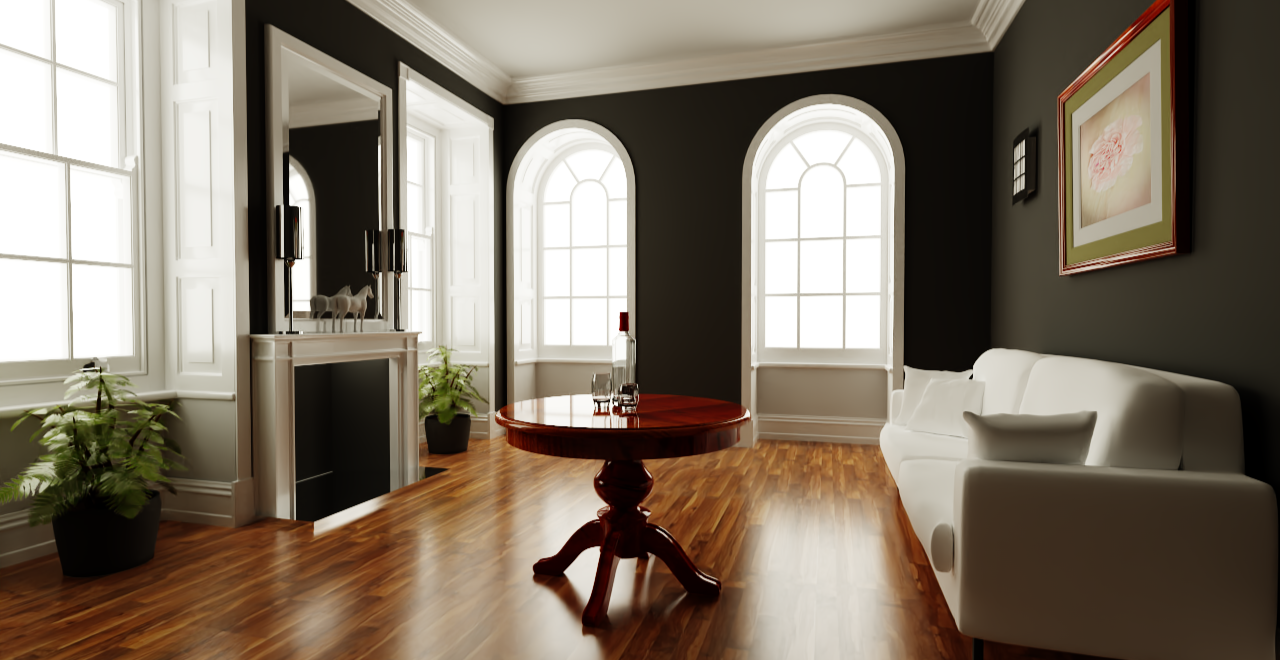
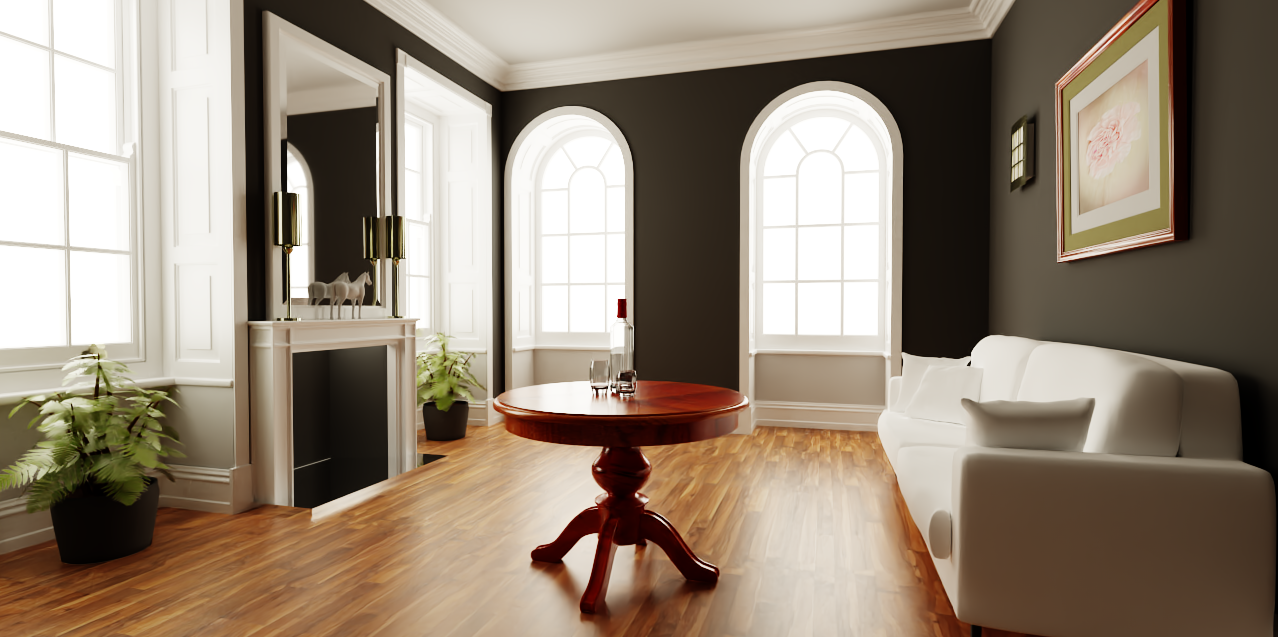
tweak pbrt material parameters

diff --git a/src/scene/pbrt.cpp b/src/scene/pbrt.cpp
@@ -1,10 +1,12 @@
 #define STBI_MSC_SECURE_CRT
 #include <pbrtParser/Scene.h>
 #include "stb_image.h"
+#include "render/materials/fresnel.h"
 #include "importer.h"
 
 KRR_NAMESPACE_BEGIN
 
+using namespace math;
 using namespace importer;
 
 namespace {
@@ -61,81 +63,96 @@ size_t loadMaterial(Scene::SharedPtr scene,
 		float x = log(roughness);
 		float val = 1.62142f + 0.819955f * x + 0.1734f * pow2(x) + 0.0171201f * pow3(x) +
 					0.000640711f * pow4(x);
-		return val;
+		return (val);
 	};
 
 	if (auto m = std::dynamic_pointer_cast<pbrt::DisneyMaterial>(mat)) {
 		Log(Info, "Encountered disney material: %s", mat->name.c_str());
-		matParams.diffuse = Vector4f(m->color.x, m->color.y, m->color.z, matParams.diffuse[3]);
+		matParams.diffuse = Vector4f(m->color.x, m->color.y, m->color.z, 1);
 		matParams.IoR			   = m->eta;
 		matParams.specular[2]	   = m->metallic;
 		matParams.specular[1]	   = m->roughness;
 	} else if (auto m = std::dynamic_pointer_cast<pbrt::PlasticMaterial>(mat)) {
 		Log(Info, "Encountered plastic material: %s", mat->name.c_str());
-		matParams.diffuse = Vector4f(cast(m->kd), matParams.diffuse[3]);
+		matParams.diffuse = Vector4f(cast(m->kd), 1);
 		if (m->map_kd) {
 			if (auto const_tex = std::dynamic_pointer_cast<pbrt::ConstantTexture>(m->map_kd))
-				matParams.diffuse = Vector4f(cast(const_tex->value), matParams.diffuse[3]);
+				matParams.diffuse = Vector4f(cast(const_tex->value), 1);
 			else loadTexture(material, m->map_kd, Material::TextureType::Diffuse, basedir);
 		}
 		const Vector3f ks(cast(m->ks));
 		matParams.specular[3] = luminance(ks);
 		float roughness		  = m->roughness;
 		if (m->remapRoughness) roughness = remap_roughness(roughness);
-		matParams.specular[1] = roughness;
+		matParams.specular[1] = sqrt(roughness);		// sqrt'ed
 	} else if (auto m = std::dynamic_pointer_cast<pbrt::MatteMaterial>(mat)) {
 		Log(Info, "Encountered matte material: %s", mat->name.c_str());
-		matParams.diffuse = Vector4f(cast(m->kd), matParams.diffuse[3]);
+		matParams.diffuse = Vector4f(cast(m->kd), 1);
 		if (m->map_kd) {
+			Log(Debug, "A diffuse texture is found for %s texture %s", m->toString().c_str(),
+				m->name.c_str());
 			if (auto const_tex = std::dynamic_pointer_cast<pbrt::ConstantTexture>(m->map_kd)) 
-				matParams.diffuse = Vector4f(cast(const_tex->value), matParams.diffuse[3]);
+				matParams.diffuse = Vector4f(cast(const_tex->value), 1);
 			else loadTexture(material, m->map_kd, Material::TextureType::Diffuse, basedir);
 		}
 		matParams.specular[1] = 0.9;
 	} else if (auto m = std::dynamic_pointer_cast<pbrt::SubstrateMaterial>(mat)) {
 		Log(Info, "Encountered substrate material: %s", mat->name.c_str());
 		material->mShadingModel = Material::ShadingModel::SpecularGlossiness;
-		matParams.diffuse = Vector4f(cast(m->kd), matParams.diffuse[3]);
+		matParams.diffuse = Vector4f(cast(m->kd), 1);
 		if (m->map_kd) {
 			if (auto const_tex = std::dynamic_pointer_cast<pbrt::ConstantTexture>(m->map_kd)) 
-				matParams.diffuse = Vector4f(cast(const_tex->value), matParams.diffuse[3]);
+				matParams.diffuse = Vector4f(cast(const_tex->value), 1);
 			else loadTexture(material, m->map_kd, Material::TextureType::Diffuse, basedir);
 		}
 		Vector3f ks(cast(m->ks));
 		float roughness = (m->uRoughness + m->vRoughness) / 2;
 		if (m->remapRoughness) roughness = remap_roughness(roughness);
-		matParams.specular = Vector4f(ks, 1 - roughness);
+		matParams.specular = Vector4f(ks, 1 - sqrt(roughness));		// sqrt'ed
 	} else if (auto m = std::dynamic_pointer_cast<pbrt::UberMaterial>(mat)) {
 		Log(Info, "Encountered uber material: %s", mat->name.c_str());
-		material->mShadingModel		   = Material::ShadingModel::SpecularGlossiness;
 		Vector3f diffuse		= cast(m->kd);
 		Vector3f specular		= cast(m->ks);
 		Vector3f transmission	= cast(m->kt);
-		material->mShadingModel = Material::ShadingModel::SpecularGlossiness;
-		matParams.diffuse		= Vector4f(diffuse, matParams.diffuse[3]);
-		matParams.specular		= Vector4f(specular, 1 - m->roughness);
-		matParams.specularTransmission = luminance(transmission);
+		float roughness			= m->roughness;
+		//roughness				= remap_roughness(roughness);
 		if (m->map_kd) {
 			Log(Debug, "A diffuse texture is found for %s texture %s", m->toString().c_str(),
 				m->name.c_str());
 			if (auto const_tex = std::dynamic_pointer_cast<pbrt::ConstantTexture>(m->map_kd)) 
-				matParams.diffuse = Vector4f(cast(const_tex->value), matParams.diffuse[3]);
+				diffuse = cast(const_tex->value);
 			else loadTexture(material, m->map_kd, Material::TextureType::Diffuse, basedir);
 		}
 		if (m->map_ks) {
 			Log(Debug, "A specular texture is found for %s texture %s", m->toString().c_str(),
 				m->name.c_str());
 			if (auto const_tex = std::dynamic_pointer_cast<pbrt::ConstantTexture>(m->map_ks)) 
-				matParams.specular = Vector4f(cast(const_tex->value), matParams.specular[3]);
+				specular = cast(const_tex->value);
 			 else loadTexture(material, m->map_ks, Material::TextureType::Specular, basedir);
 		}
 		if (m->map_opacity) {
-			// TODO: alpha-killing is currently not supported.
-			Log(Info, "A opacity map is found for %s texture %s", m->toString().c_str(),
+			Log(Info, "An opacity map is found for %s texture %s", m->toString().c_str(),
 				m->name.c_str());
-			if (auto const_tex = std::dynamic_pointer_cast<pbrt::ImageTexture>(m->map_opacity))
+			if (auto tex = std::dynamic_pointer_cast<pbrt::ImageTexture>(m->map_opacity))
 				loadTexture(material, m->map_opacity, Material::TextureType::Transmission, basedir);
 		}
+		if (m->map_roughness) {
+			Log(Info, "A roughness map is found for %s texture %s", m->toString().c_str(),
+				m->name.c_str());
+			if (auto const_tex = std::dynamic_pointer_cast<pbrt::ConstantTexture>(m->map_ks))
+				roughness = luminance(cast(const_tex->value));
+			else Log(Warning, "An image roughness map is currently not supported!");
+		} 
+		if (m->map_bump) {
+			Log(Info, "A bump map is found for %s texture %s", m->toString().c_str(),
+				m->name.c_str());
+			if (auto tex = std::dynamic_pointer_cast<pbrt::ImageTexture>(m->map_opacity))
+				loadTexture(material, m->map_opacity, Material::TextureType::Normal, basedir);
+		}
+		material->mShadingModel		   = Material::ShadingModel::SpecularGlossiness;
+		matParams.diffuse			   = Vector4f(diffuse, matParams.diffuse[3]);
+		matParams.specular			   = Vector4f(specular, 1 - sqrt(roughness));	// sqrt'ed
+		matParams.specularTransmission = luminance(transmission);
 	} else if (auto m = std::dynamic_pointer_cast<pbrt::TranslucentMaterial>(mat)) {
 		Log(Warning, "Encountered not well-supported transluscent material: %s", mat->name.c_str());
 		matParams.diffuse = Vector4f(cast(m->kd), matParams.diffuse[3]);
@@ -149,25 +166,27 @@ size_t loadMaterial(Scene::SharedPtr scene,
 		// TODO: needs to make disney mirror-reflect when 0-roughness.
 		Log(Info, "Encountered mirror material: %s", mat->name.c_str());
 		material->mShadingModel = Material::ShadingModel::SpecularGlossiness;
-		matParams.diffuse		= Vector4f(Vector3f(0), matParams.diffuse[3]);
+		matParams.diffuse		= Vector4f(Vector3f(0), 1);
 		matParams.specular		= Vector4f(cast(m->kr), 1);
 	} else if (auto m = std::dynamic_pointer_cast<pbrt::MetalMaterial>(mat)) {
 		Log(Warning, "Encountered not well-supported metal material: %s", mat->name.c_str());
 		material->mShadingModel = Material::ShadingModel::MetallicRoughness;
 		Vector3f eta			= cast(m->eta);
 		Vector3f eta_k			= cast(m->k);
-		matParams.diffuse		= Vector4f(eta_to_reflectivity(eta, eta_k), 0);
+		//matParams.diffuse		= Vector4f(eta_to_reflectivity(eta, eta_k), 0);
+		matParams.diffuse = Vector4f(bsdf::FrComplex(1, eta, eta_k), 0);
 		float roughness			= m->roughness;
+		roughness				= (m->uRoughness + m->vRoughness) / 2;
 		if (m->remapRoughness) roughness = remap_roughness(roughness);
-		matParams.specular[1] = roughness;
-		matParams.specular[2] = 0.8;		// manually set metallic
+		matParams.specular[1] = sqrt(roughness);	// sqrt'ed
+		matParams.specular[2] = 0.8;				// manually set metallic
 	} else if (auto m = std::dynamic_pointer_cast<pbrt::GlassMaterial>(mat)) {
 		Log(Warning, "Encountered not well-supported glass material: %s", mat->name.c_str());
 		material->mShadingModel = Material::ShadingModel::SpecularGlossiness;
 		matParams.specularTransmission = luminance(cast(m->kt));
-		matParams.diffuse			   = Vector4f(cast(m->kr), 1);
-		matParams.specular			   = Vector4f(Vector3f(0.39), 1);
-		matParams.IoR = 1.5;
+		matParams.diffuse			   = Vector4f(cast(m->kt), 1);
+		matParams.specular			   = Vector4f(Vector3f(0.4), 1);
+		matParams.IoR				   = m->index;
 	} else {
 		Log(Warning, "Encountered unsupported %s material: %s", 
 			mat->toString().c_str(), mat->name.c_str());

diff --git a/src/main/renderer.cpp b/src/main/renderer.cpp
@@ -118,7 +118,7 @@ void RenderApp::renderUI() {
 		}
 		if (ui::BeginMenu("Tools")) {
 			if (ui::MenuItem("Save config"))
-				saveConfig();
+				saveConfig("");
 			ui::MenuItem("Save HDR", NULL, &saveHdr);
 			if (ui::MenuItem("Screen shot")) 
 				captureFrame();
@@ -135,12 +135,17 @@ void RenderApp::renderUI() {
 		if (ui::Button("Screen shot"))
 			captureFrame(saveHdr);
 		if (ui::CollapsingHeader("Configuration")) {
+			static char loadConfigBuf[512];
+			static char saveConfigBuf[512] = "common/configs/saved_config.json"; 
+			strcpy(loadConfigBuf, mConfigPath.c_str());
 			if (ui::InputInt2("Frame size", (int *) &fbSize))
 				resize(fbSize);
+			ui::InputText("Load path: ", loadConfigBuf, 1024); 
 			if (ui::Button("Load config"))
-				loadConfig("");
+				loadConfig(loadConfigBuf);
+			ui::InputText("Save path: ", saveConfigBuf, 1024);
 			if (ui::Button("Save config"))
-				saveConfig();
+				saveConfig(saveConfigBuf);
 		}
 		//if (ui::CollapsingHeader("Performance")) {
 		//	mFrameRate.plotFrameTimeGraph();
@@ -194,11 +199,11 @@ void RenderApp::captureFrame(bool hdr, fs::path filename) {
 	logSuccess("Rendering saved to " + filepath.string());
 }
 
-void RenderApp::saveConfig() {
+void RenderApp::saveConfig(string path) {
 	fs::path dirpath = File::resolve("common/configs"); 
 	if (!fs::exists(dirpath))
 		fs::create_directories(dirpath);
-	fs::path filepath = dirpath / ("config_" + Log::nowToString("%H_%M_%S") + ".json");
+	fs::path filepath = path.empty()? dirpath / ("config_" + Log::nowToString("%H_%M_%S") + ".json") : path;
 	std::ofstream ofs(filepath);
 	json config = mConfig;
 	config["resolution"] = fbSize;

diff --git a/src/core/texture.cpp b/src/core/texture.cpp
@@ -291,7 +291,7 @@ void Material::renderUI() {
 	static const char* bsdfTypes[] = {"Diffuse", "FresnelBlend", "Disney"};
 	ui::ListBox("Shading model", (int*)&mShadingModel, shadingModels, 2);
 	ui::ListBox("BSDF", (int*)&mBsdfType, bsdfTypes, (int)BsdfType::Count);
-	ui::DragFloat4("Diffuse", (float*)&mMaterialParams.diffuse, 1e-3, 0, 1);
+	ui::DragFloat4("Diffuse", (float*)&mMaterialParams.diffuse, 1e-3, 0, 5);
 	ui::DragFloat4("Specular", (float*)&mMaterialParams.specular, 1e-3, 0, 1);
 	ui::DragFloat3("Emissive", (float*)&mMaterialParams.emissive, 1e-3, 0, 1);
 	ui::DragFloat("Diffuse transmission", &mMaterialParams.diffuseTransmission, 1e-3, 0, 1);

diff --git a/src/render/materials/disney.h b/src/render/materials/disney.h
@@ -211,7 +211,7 @@ public:
 
 		Color c				 = sd.diffuse;
 		float metallicWeight = sd.metallic;
-		float e = 1.5; //sd.IoR; // Some scene has corrupt IoR so we use all 1.5 instead...
+		float e = sd.IoR; //sd.IoR; // Some scene has corrupt IoR so we use all 1.5 instead...
 		float strans = sd.specularTransmission;
 		float diffuseWeight = (1 - metallicWeight) * (1 - strans);
 		float dt = sd.diffuseTransmission;

diff --git a/src/core/math/complex.h b/src/core/math/complex.h
@@ -47,7 +47,7 @@ namespace math
 
 		KRR_CALLABLE T real() { return re; }
 
-		KRR_CALLABLE T imag() { return re; }
+		KRR_CALLABLE T imag() { return im; }
 
 		KRR_CALLABLE T norm() { return re * re + im * im; }
 		

diff --git a/src/main/renderer.h b/src/main/renderer.h
@@ -39,7 +39,7 @@ public:
 	void draw() override;
 
 	void captureFrame(bool hdr = false, fs::path filename = "");
-	void saveConfig();
+	void saveConfig(string path);
 	void loadConfig(fs::path path);
 
 private:

diff --git a/src/render/materials/matutils.h b/src/render/materials/matutils.h
@@ -24,6 +24,8 @@
 
 KRR_NAMESPACE_BEGIN
 
+using namespace math;
+
 namespace bsdf{
 	constexpr float minCosTheta = 1e-6f;
 	constexpr float epsilon = 1e-6f;

diff --git a/README.md b/README.md
@@ -12,10 +12,10 @@
 
 - [x] Orbit camera controlling & thin lens camera.
 - [x] Diffuse, microfacet, disney and fresnel-blended bsdfs.
-- [x] GPU path tracing (a megakernel version and a [wavefront](https://research.nvidia.com/publication/2013-07_megakernels-considered-harmful-wavefront-path-tracing-gpus) version).
+- [x] GPU path tracing (a megakernel version and a wavefront version).
 - [x] Next event estimation and multiple importance sampling.
 - [x] Post processing passes (e.g., tonemapping, accumulating and denoising).
-- [x] Basic support for multiple formats of scenes (e.g., OBJ, glTF2 and [pbrt-v3](https://github.com/mmp/pbrt-v3/)).
+- [x] Basic support for multiple scenes formats (e.g., OBJ, glTF2 and [pbrt-v3](https://github.com/mmp/pbrt-v3/)).
 - [x] Simple CPU/GPU performance profiling.
 
 ### Build and run
@@ -63,17 +63,22 @@ One can also save the current parameters (including camera parameters, render pa
 ### Galleries
 
 <p align=center>
+<img src=common/demo/kitchen.png width="800">
+
+<p align=center>
 <img src=common/demo/living-room.png width="800">
+
+More visuals [here](https://cutesail.com/?p=493)!
 
 ### Issues
 
 #### Performance
 
-Switch to *Release* build for normal performance! The megakernel pathtracer should run at about 30 spp per second at 1920*1080 on an RTX 3070, if the average path length is less than 5. The wavefront pathtracer however, expected to be faster than the megakernel version, is currently slightly slower due to my poor implementation (it does run significantly faster when next event estimation is enabled though). 
+Switch to *Release* build for normal performance! The megakernel pathtracer should run at about 30 spp per second at 1920*1080 on an RTX 3070, if the average path length is less than 5. The [wavefront pathtracer](https://research.nvidia.com/publication/2013-07_megakernels-considered-harmful-wavefront-path-tracing-gpus) however, expected to be faster than the megakernel version, is currently slightly slower due to my poor implementation (it does run significantly faster when next event estimation is enabled though). 
 
 #### Scene loading
 
-*Kiraray* provided limited support for importing scenes like OBJ, glTF2 with [Assimp](https://github.com/assimp/assimp.git) as the default scene importer. Some commonly used material properties (e.g., roughness, metallic) and textures (normal, emission, opacity, etc.) are supported. [pbrt-parser](https://github.com/cuteday/pbrt-parser.git) is used to import pbrt-v3 scenes, and all pbrt materials are roughly approximated with the Disney Principled BSDF. 
+*Kiraray* provided limited support for importing scenes like OBJ, glTF2 with [Assimp](https://github.com/assimp/assimp.git) as the default scene importer. Some commonly used material properties (e.g., roughness, metallic) and textures (normal, emission, opacity, etc.) are supported. [pbrt-parser](https://github.com/cuteday/pbrt-parser.git) is used to import pbrt-v3 scenes, and all pbrt materials are roughly approximated with the Disney Principled BSDF. You can find pbrt-v3 scenes [here](https://pbrt.org/scenes-v3) or [here](https://benedikt-bitterli.me/resources/). Most of the scenes could be loaded, but some of the materials might be visually biased.
 
 ### Credits
 - The great optix tutorial for beginners: [optix7course](https://github.com/ingowald/optix7course).
